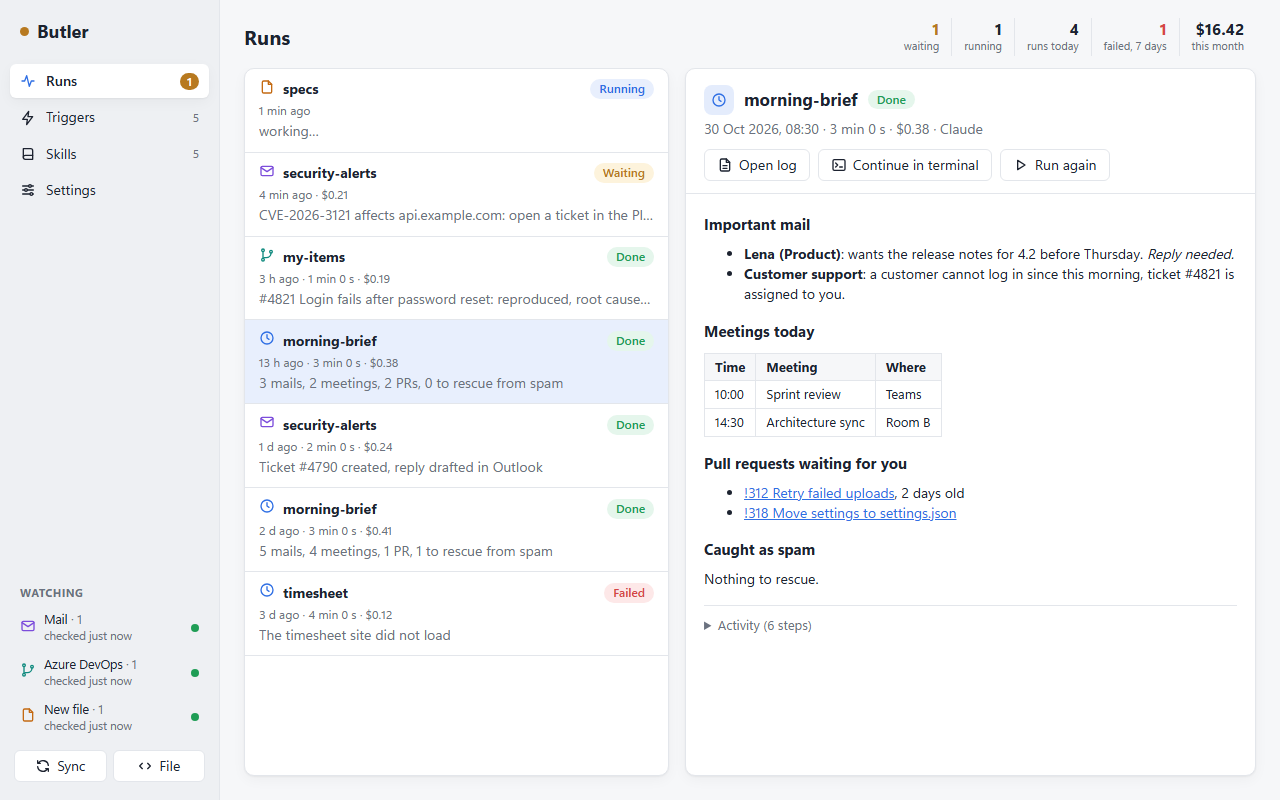
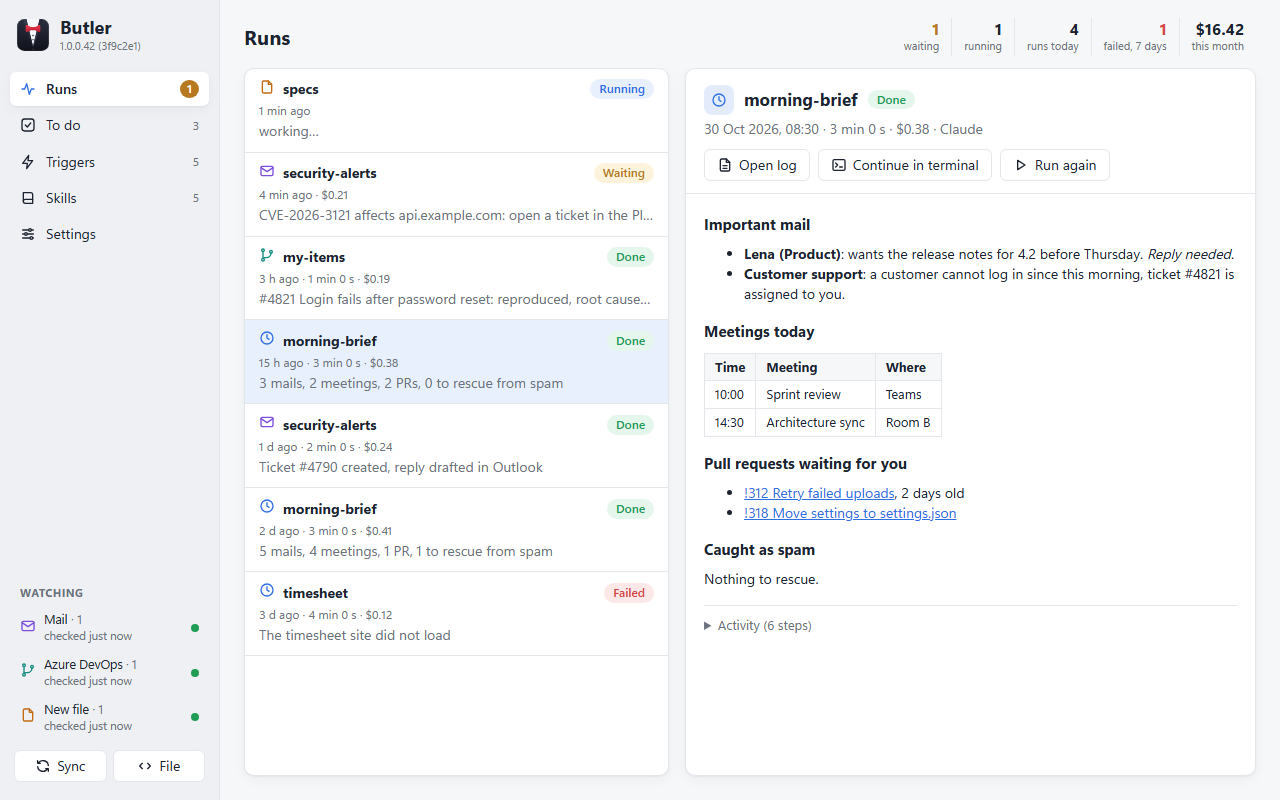
docs: rewrite readme and add feature screenshots
Rewrite the README around what Butler does for the user, with new screenshots for waiting runs, the trigger editor and the to-do page. Also tidy the to-do page's "Add a task" prompt and the editor's variables hint in dashboard.html.

diff --git a/src/Butler/dashboard.html b/src/Butler/dashboard.html
@@ -172,7 +172,8 @@
   .proj h3 { margin: 6px 16px 6px; font-size: 15px; display: flex; gap: 8px; align-items: baseline; }
   .proj h3 .n, .proj h4 .n { font-weight: 400; color: var(--muted); font-size: 12.5px; }
   .proj h4 { margin: 12px 16px 4px; font-size: 12px; text-transform: uppercase; letter-spacing: .04em; color: var(--muted); }
-  .proj .none { padding: 4px 16px 10px; color: var(--muted); font-size: 13px; }
+  .proj .addhere { display: flex; gap: 6px; align-items: center; padding: 6px 16px 10px; color: var(--muted); font-size: 13px; cursor: pointer; }
+  .proj .addhere:hover { color: var(--accent); }
   .task { display: flex; gap: 10px; align-items: flex-start; padding: 7px 16px; border-top: 1px solid var(--line); }
   .task:hover { background: var(--hover); }
   .task.gone { opacity: .35; }
@@ -522,7 +523,7 @@ function renderTodo() {
       return `<div class="proj"><h3>${esc(p.name)} <span class="n">${mine.length}</span>
           <button class="hide" title="${isHidden ? 'Show this list in All again' : 'Hide this list from All (still under Hidden)'}"
             onclick="todoHide(${esc(JSON.stringify(p.id))},${!isHidden})">${icon(isHidden ? 'eye' : 'eyeOff')}</button></h3>
-        ${block(loose, { projectId: p.id, sectionId: null })}
+        ${loose.length || !mine.length ? block(loose, { projectId: p.id, sectionId: null }) : ''}
         ${sections.map(s => { const inside = mine.filter(x => x.sectionId === s.id); return inside.length ? `<h4>${esc(s.name)} <span class="n">${inside.length}</span></h4>${block(inside, { projectId: p.id, sectionId: s.id })}` : ''; }).join('')}</div>`;
     }).join('') || `<div class="empty">${icon('todo')}Nothing to do.</div>`}
   </div>`;
@@ -544,7 +545,7 @@ function slot(place, index, visible) {
     return `<div class="task inserting"><span class="check"></span><input id="todo-insert" class="inline" placeholder="Task name, Enter to add, Esc to cancel"
       onkeydown="if(event.key==='Enter')todoInsert();if(event.key==='Escape')closeInsert()" onblur="insertBlur()"></div>`;
   const i = todoSlots.push(at) - 1;
-  return visible ? `<div class="none" style="cursor:pointer" onclick="openInsert(${i})">${icon('plus')} Add a task</div>`
+  return visible ? `<div class="addhere" onclick="openInsert(${i})">${icon('plus')}Add a task</div>`
     : `<div class="slot" title="Add a task here" onclick="openInsert(${i})"></div>`;
 }
 
@@ -830,8 +831,8 @@ function drawEditor() {
           <div class="bar"><select onchange="setSkill(this.value)"><option value="">No skill</option>${state.skills.map(s =>
             `<option value="${esc(s.name)}" ${s.name === skill || s.folder === skill ? 'selected' : ''}>/${esc(s.name)}</option>`).join('')}</select></div>
           <textarea id="t-prompt" class="mono" rows="7" oninput="form.prompt=this.value">${esc(form.prompt)}</textarea>
-          ${kind.variables.length ? `<div class="vars"><span class="muted">Insert:</span>${kind.variables.map(v => `<span class="chip" onclick="insertVar('${v}')">\${${v}}</span>`).join('')}
-            <span class="muted">· filled from the event; without any, the event is appended.</span></div>` : ''}
+          ${kind.variables.length ? `<div class="vars"><span class="muted">Insert:</span>${kind.variables.map(v => `<span class="chip" onclick="insertVar('${v}')">\${${v}}</span>`).join('')}</div>
+            <div class="hint">Filled from the event. Without any, the event is appended.</div>` : ''}
         </div>
         <div id="t-error"></div>
       </div>

diff --git a/README.md b/README.md
@@ -1,12 +1,13 @@
 <div align="center">
 
-<img src="docs/butler.png" width="96" alt="Butler icon" />
+<img src="docs/butler.png" width="104" alt="Butler icon" />
 
 # Butler
 
-**Your coding agent, working while you don't.**
-Butler runs Claude Code (or GitHub Copilot CLI) on its own: every morning, when a mail arrives, when a work item
-changes, when a file lands in a folder. Then it tells you what it did, and asks when it needs you.
+### Your AI agent, working while you don't.
+
+Butler runs **Claude Code** or **GitHub Copilot CLI** for you, at the right moment: every morning, when a mail
+arrives, when a work item changes, when a file lands in a folder. It tells you what it did, and asks when it needs you.
 
 [![CI](https://github.com/o0Zz/butler/actions/workflows/ci.yml/badge.svg)](https://github.com/o0Zz/butler/actions/workflows/ci.yml)
 [![Release](https://img.shields.io/github/v/release/o0Zz/butler)](https://github.com/o0Zz/butler/releases)
@@ -14,63 +15,76 @@ changes, when a file lands in a folder. Then it tells you what it did, and asks 
 ![.NET](https://img.shields.io/badge/.NET-9-512BD4)
 [![License](https://img.shields.io/badge/license-Apache%202.0-blue)](LICENSE)
 
-[Why Butler](#why-butler) · [What it does](#what-it-does) · [Triggers](#triggers) · [Get started](#get-started) · [How it works](#how-it-works)
+[**Download**](https://github.com/o0Zz/butler/releases) · [Why Butler](#why-butler) · [What you get](#what-you-get) · [Triggers](#triggers) · [Get started](#get-started) · [How it works](#how-it-works)
 
-<img src="docs/screenshots/runs.png" alt="Butler's dashboard: every run with its trigger, outcome, duration and cost, and the morning brief in Markdown" />
+<img src="docs/screenshots/runs.png" alt="Butler's dashboard: every run with its trigger, outcome, duration and cost, and this morning's brief in Markdown" />
 
 </div>
 
 ## Why Butler
 
-Coding agents are great at the boring parts of the job: reading the mails that matter, filling the monthly
-timesheet, turning a security alert into a ticket, summarizing the pull requests waiting for you. You already
-wrote the skills for that. But they only run when **you** open a terminal and ask.
+You already have an agent that can read your mails, review a pull request, fill a timesheet or turn a security
+alert into a ticket. You probably wrote the skills for it. But it only works when **you** open a terminal and ask.
 
-Butler is the missing piece: it **starts the agent for you**, at the right moment, without a window open, and
-keeps an eye on what happened.
+**Butler starts it for you.** No window open, no prompt to remember: the brief is ready when you sit down, the
+alert is triaged before you read it, the spec is reviewed as soon as it lands in your Downloads.
 
-- **It runs on events, not on your memory.** A schedule, a mail from a given sender, an Azure DevOps change, a
-  new file: each one starts a headless run of your agent with the prompt you chose.
-- **Nothing is lost.** Schedules live in Windows Task Scheduler and catch up after sleep. Mails, work items and
-  files are read from a checkpoint, so what arrived while your PC was off is handled when it wakes up.
-- **It asks instead of guessing.** A run can stop with a question. You get a notification, answer it in one
-  line, and the same session carries on.
-- **You see everything.** A dashboard lists every run: what started it, what the agent did step by step, the
-  outcome, the duration and the cost.
-- **Your skills stay yours.** Triggers live in a plain `butler.json` next to your skills, in your own git repo.
-  Butler adds no agent, no cloud and no account: it drives the CLI you already use, with your login.
+- ⏰ **Runs on events, not on your memory.** A schedule, a mail from a given sender, an Azure DevOps change, a new
+  file: each one starts your agent, headless, with the prompt you chose.
+- 🛟 **Nothing gets lost.** Schedules catch up after sleep. Mails, work items and files are read from a checkpoint,
+  so what arrived while your PC was off is handled when it wakes up.
+- 🙋 **Asks instead of guessing.** A run can stop with a question. You answer from a notification, in one click,
+  and the same agent session carries on.
+- 🔍 **You see everything.** Every run, what started it, each step of the agent, the outcome, the duration, the cost.
+- 🔒 **Yours, and only yours.** Triggers are a plain JSON file next to your skills, in your own git repo. No server,
+  no account, no telemetry: Butler drives the CLI you already use, with your own login.
 
-## What it does
+## What you get
 
 ### A morning brief before you sit down
-A schedule trigger at 08:30 runs `/morning-brief`: the important mails, today's meetings, the pull requests waiting
-for your vote, and the mails wrongly caught as spam. The summary is waiting in the dashboard and in a notification.
 
-### Mails handled as they arrive
-A mail from `security@vendor.com` starts `/triage-mail` with the sender, subject and date. The agent opens a
-ticket and prepares a reply as a draft. Butler reads every mail folder (rules that move mails don't hide them), and
-never sends, moves or deletes a mail itself.
+A trigger at 08:30 runs your `/morning-brief` skill: the mails that matter, today's meetings, the pull requests
+waiting for your vote, the mails wrongly caught as spam. The summary waits in the dashboard and in a notification,
+in clean Markdown, with the cost of the run.
 
-### Work that follows Azure DevOps
-A WIQL condition like `[System.AssignedTo] = @Me AND [System.ChangedBy] <> @Me` starts a run for every work item
-someone else changes for you, with its id, title and state.
+### It asks, you answer in one click
 
-### Files that process themselves
-Drop a spec in a folder: once the file is fully written, a run starts with its path.
+When the agent needs a decision, the run stops with a question instead of guessing. Answer **Yes**, **No** or a
+sentence, from the dashboard or straight from the Windows notification, and the same session goes on.
 
-### The dashboard
-- **Runs**: live activity of each run (text, tool calls), its outcome in Markdown, its cost; stop it, run it again,
-  or continue the session in a terminal.
-- **Waiting for you**: answer a run's question from the dashboard or straight from the notification.
-- **Triggers**: one card per trigger, with its next run, its last 10 results and its cost over 30 days. Add, edit
-  or delete triggers in a form; the schedule is picked from menus, and the prompt editor lists your skills and the
-  variables of the trigger.
-- **Watching**: whether each source is healthy (for example, Outlook is closed and mails are not being read).
-- **Skills**: your skills and which triggers call them.
-- **Ask AI**: opens your agent in the skills folder to write new skills and triggers in plain words.
+<div align="center">
+<img src="docs/screenshots/waiting.png" alt="A run waiting for an answer: open a ticket for this CVE and draft a reply? Yes, No or a free answer" />
+</div>
+
+### Triggers you can read at a glance
+
+One card per trigger: when it fires, what it calls, its next run, its last ten results and what it cost over 30
+days. **Run now** tries it immediately. The **Watching** panel tells you when a source is down (Outlook closed, a
+folder gone) instead of failing in silence.
 
 <div align="center">
 <img src="docs/screenshots/triggers.png" alt="Butler's triggers: a card per trigger with its schedule or source, its skill, its last runs and its cost" />
+</div>
+
+### Add a trigger in a few clicks
+
+Pick what starts it: a **schedule** (built from menus), a **mail** from given senders, an **Azure DevOps** query,
+or a **new file** in a folder. Pick a skill, click the variables to insert (`${subject}`, `${path}`...). Butler checks
+everything before saving, and syncs Windows Task Scheduler for you. Prefer words? **Ask AI** opens your agent in
+your skills folder to write the trigger and the skill with you.
+
+<div align="center">
+<img src="docs/screenshots/editor.png" alt="The trigger editor: name, type (schedule, mail, Azure DevOps, new file), senders, prompt with the skill picker and the variables" />
+</div>
+
+### Your to-do list, next to your agent
+
+The **To do** page shows your **Todoist** list (or a plain **todo.txt** file): click a task to edit it, drag it by
+its handle to reorder, click between two tasks to add one right there, check it off with undo. Hide the lists you
+don't want at work. Your agents reach the same list through their own tools, so a run can add the follow-up it found.
+
+<div align="center">
+<img src="docs/screenshots/todo.png" alt="The To do page: Todoist projects and sections, due dates, priorities, a hidden Personal list" />
 </div>
 
 ## Triggers
@@ -92,42 +106,26 @@ Triggers live in a JSON file (by default `~/.claude/skills/butler.json`), edited
 | `schedule` | `daily HH:mm`, `weekly:mon HH:mm`, `monthly:28 HH:mm` (Windows Task Scheduler, even when Butler is closed) | none |
 | `mail` | a mail from one of the `from` addresses, in any folder of Outlook classic (checked every 30 s) | `${from}` `${subject}` `${received}` |
 | `ado` | a work item created or changed that matches the `where` WIQL condition (checked every 2 min) | `${id}` `${title}` `${state}` `${by}` |
-| `file` | a new file in `folder`, optionally matching `filter` | `${path}` `${name}` |
+| `file` | a new file in `folder`, optionally matching `filter`, once fully written | `${path}` `${name}` |
 
-A prompt starting with `/skill` calls that skill. Every trigger also has a **Run now** button.
+A prompt starting with `/skill` calls that skill. Butler only reads your mailbox: it never sends, moves or deletes a
+mail itself (your skills can prepare drafts).
 
 ## Get started
 
-Download the zip of the latest [release](https://github.com/o0Zz/butler/releases), extract it anywhere and run
-`Butler.exe`, or build it yourself (below).
+1. **Download** the zip of the latest [release](https://github.com/o0Zz/butler/releases), extract it anywhere and
+   run `Butler.exe`.
+2. Open the dashboard from the tray icon and go to **Settings**: choose your agent CLI, your triggers file and your
+   skills folder (and your to-do list if you want one).
+3. Add your first trigger, and press **Run now** to see it work.
 
 Requirements:
-- Windows 10 or 11, the [.NET 9 Desktop Runtime](https://dotnet.microsoft.com/download/dotnet/9.0) (the SDK to build)
-  and the WebView2 runtime (built into Windows 11).
+- Windows 10 or 11, the [.NET 9 Desktop Runtime](https://dotnet.microsoft.com/download/dotnet/9.0) and the WebView2
+  runtime (built into Windows 11).
 - An agent CLI, logged in: [Claude Code](https://docs.claude.com/en/docs/claude-code) (`claude`) or
   [GitHub Copilot CLI](https://github.com/features/copilot/cli) (`copilot`).
 - For mail triggers: Outlook classic, running. For Azure DevOps triggers: the
   [Azure CLI](https://learn.microsoft.com/cli/azure/) with the `azure-devops` extension, logged in (`az login`).
-
-```sh
-git clone https://github.com/o0Zz/butler.git
-cd butler
-dotnet build
-dotnet test
-src/Butler/bin/Debug/net9.0-windows10.0.17763.0/Butler.exe
-```
-
-Butler starts in the tray. Open the dashboard, set your CLI, triggers file and skills folder on the **Settings**
-page, then add your first trigger.
-
-Versions are `X.Y.Z.N`, N being the number of commits: `0.0.0.N` for any build, `1.0.0.N` for the tag `v1.0.0`.
-CI ([GitHub Actions](.github/workflows/ci.yml)) builds and tests every push and pull request; pushing a tag `vX.Y.Z`
-also publishes the zip as a GitHub release:
-
-```sh
-git tag v1.0.0
-git push origin v1.0.0
-```
 
 ## How it works
 
@@ -137,11 +135,33 @@ git push origin v1.0.0
 - Schedule triggers are tasks in the `\Butler\` folder of Task Scheduler, kept in sync with the JSON. Butler never
   touches other tasks.
 - Mail, Azure DevOps and file triggers are polled by the tray from checkpoints stored in `%LOCALAPPDATA%\Butler`,
-  together with the settings and the run history.
+  together with the settings and the run history. Secrets (the Todoist token) go to the Windows Credential Manager.
 - A small protocol lets a run end with a question (`BUTLER-ASK`) or a one-line outcome (`BUTLER-SUMMARY`); an
   answer resumes the same agent session.
 
 [`CLAUDE.md`](CLAUDE.md) describes the architecture and the design decisions in detail.
+
+## Development
+
+```sh
+git clone https://github.com/o0Zz/butler.git
+cd butler
+dotnet build
+dotnet test
+src/Butler/bin/Debug/net9.0-windows10.0.17763.0/Butler.exe
+```
+
+Building needs the [.NET 9 SDK](https://dotnet.microsoft.com/download). The tests run against the real things:
+Task Scheduler, folders, Credential Manager, and Outlook or Azure DevOps when they are available.
+
+Versions are `X.Y.Z.N`, N being the number of commits: `0.0.0.N` for any build, `1.0.0.N` for the tag `v1.0.0`.
+[CI](.github/workflows/ci.yml) builds and tests every push and pull request; pushing a tag also publishes the zip
+as a GitHub release:
+
+```sh
+git tag v1.0.0
+git push origin v1.0.0
+```
 
 ## License
 
